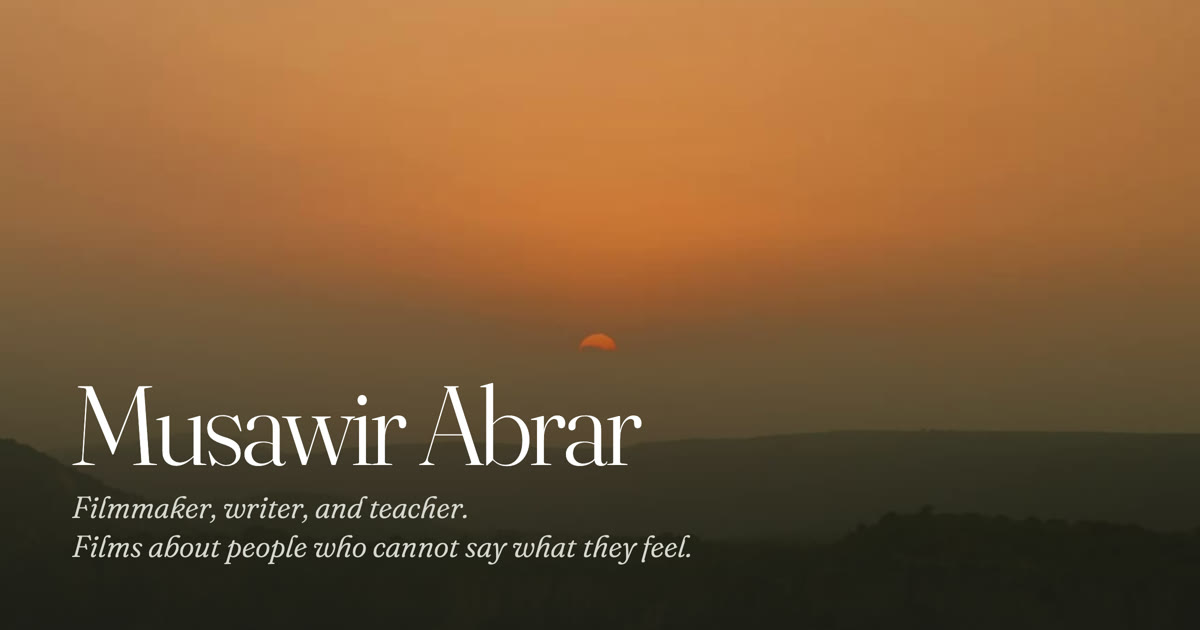
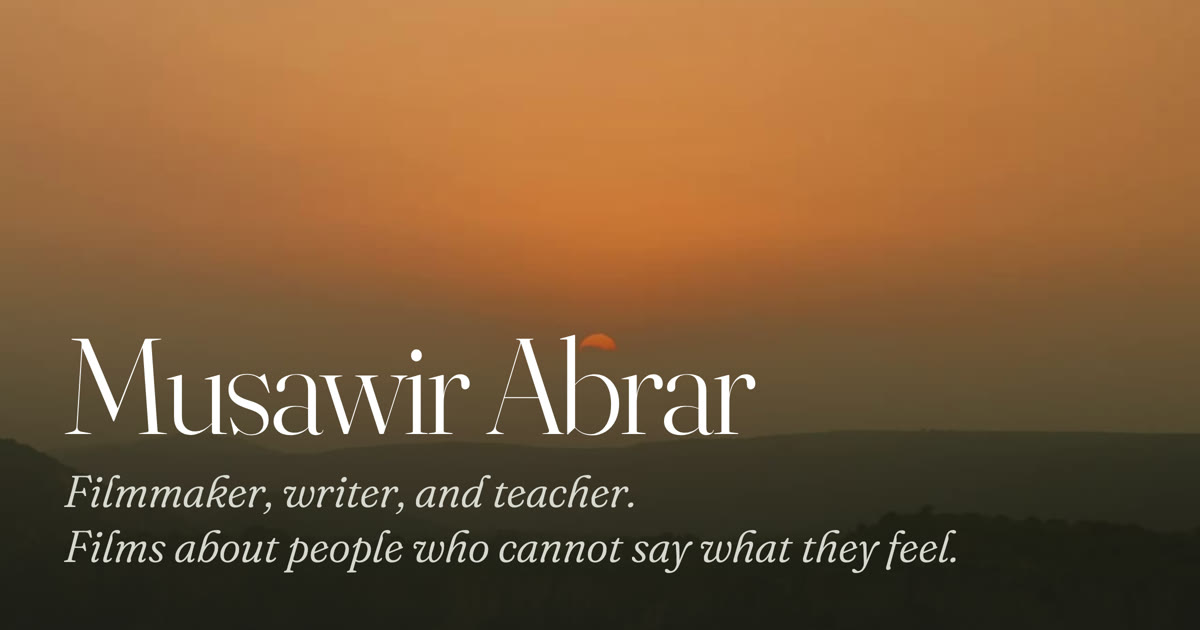
Larger type on the share image
Link previews on phones show the image at about a third of its size.
The name and the two lines under it are set larger so they still read
there.

Changed region(s): [[0.0617, 0.5127, 0.8017, 0.9048]]

diff --git a/assets/og-source.html b/assets/og-source.html
@@ -8,9 +8,9 @@
   .card{position:relative;width:1200px;height:630px;font-family:"Fraunces",Georgia,serif;color:#e6e7df}
   .card img{position:absolute;inset:0;width:1200px;height:630px;object-fit:cover;filter:saturate(0.9)}
   .card::after{content:"";position:absolute;inset:0;background:linear-gradient(180deg,rgba(27,29,25,0) 35%,rgba(27,29,25,0.72) 100%)}
-  .text{position:absolute;left:72px;right:72px;bottom:64px;z-index:1}
-  h1{margin:0 0 10px;font-size:112px;font-weight:300;line-height:0.95;letter-spacing:-0.03em;font-variation-settings:"opsz" 144,"SOFT" 30;color:#fff}
-  p{margin:0;font-size:30px;line-height:1.3;font-style:italic;font-weight:300;color:#e6e7df;opacity:0.92}
+  .text{position:absolute;left:64px;right:64px;bottom:56px;z-index:1}
+  h1{margin:0 0 14px;font-size:136px;font-weight:300;line-height:0.95;letter-spacing:-0.03em;font-variation-settings:"opsz" 144,"SOFT" 30;color:#fff}
+  p{margin:0;font-size:44px;line-height:1.25;font-style:italic;font-weight:300;color:#e6e7df;opacity:0.92}
   .url{position:absolute;right:72px;bottom:70px;z-index:1;font-size:26px;font-style:italic;color:#e6e7df;opacity:0.8}
 </style></head>
 <body><div class="card">
